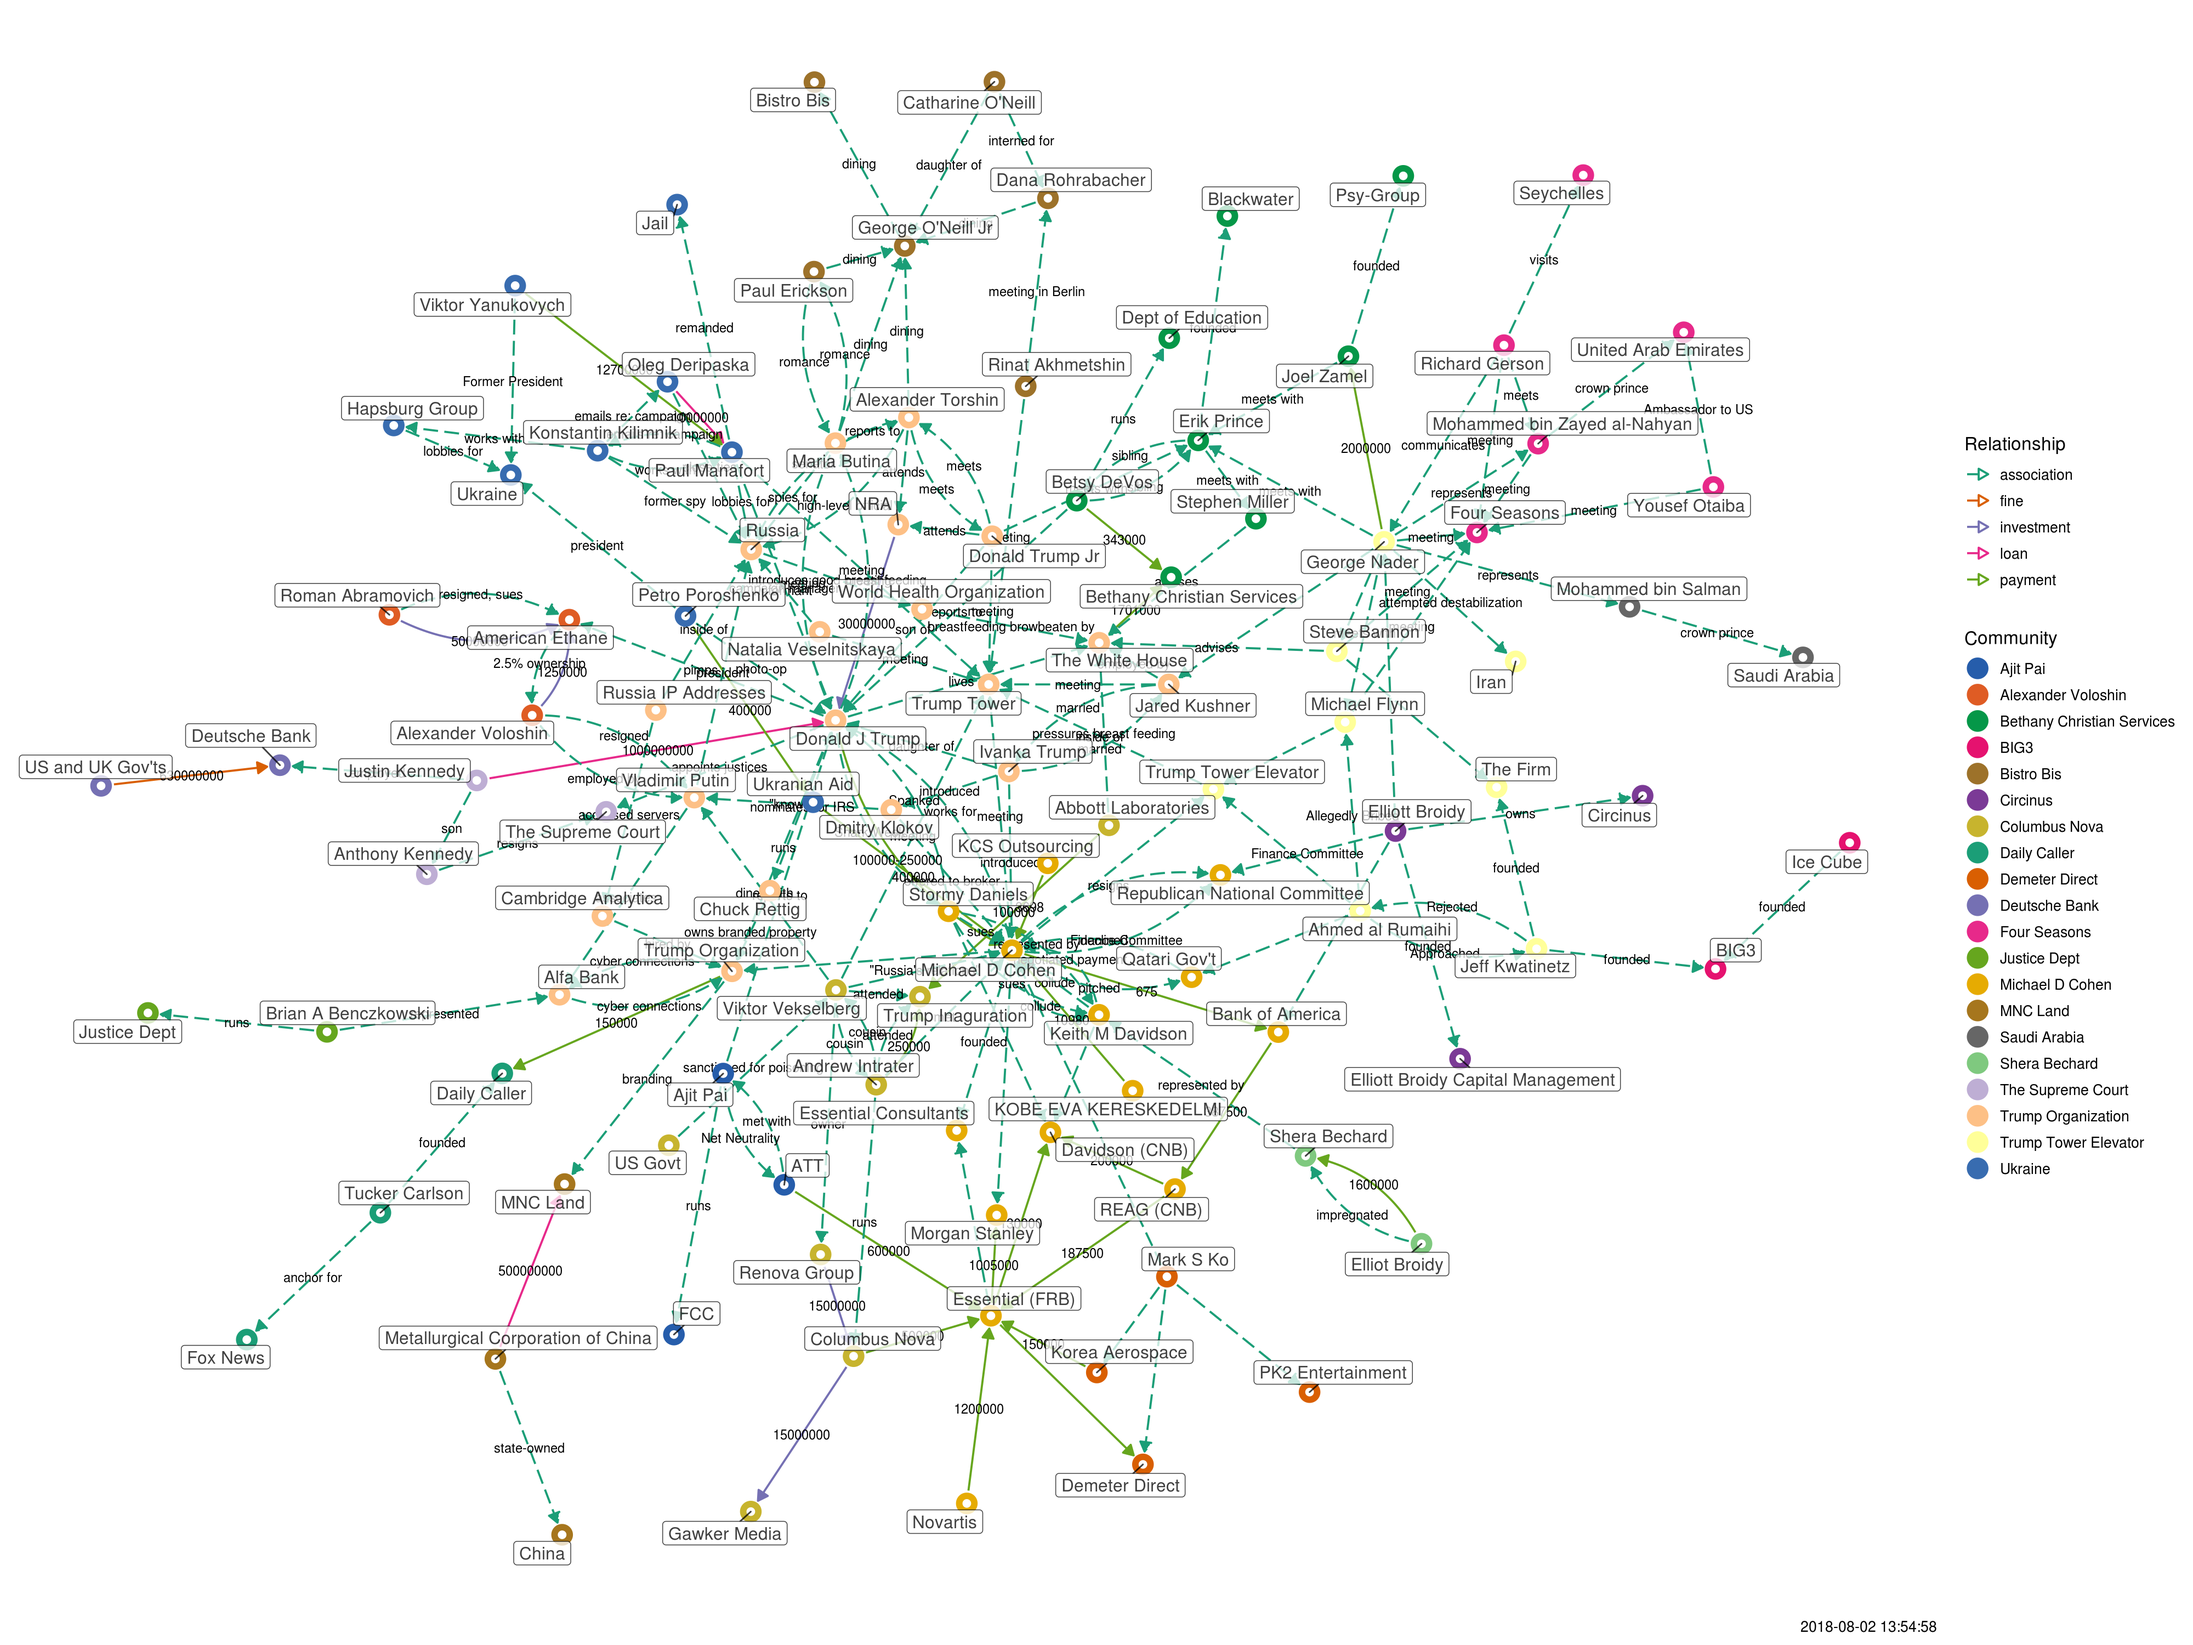
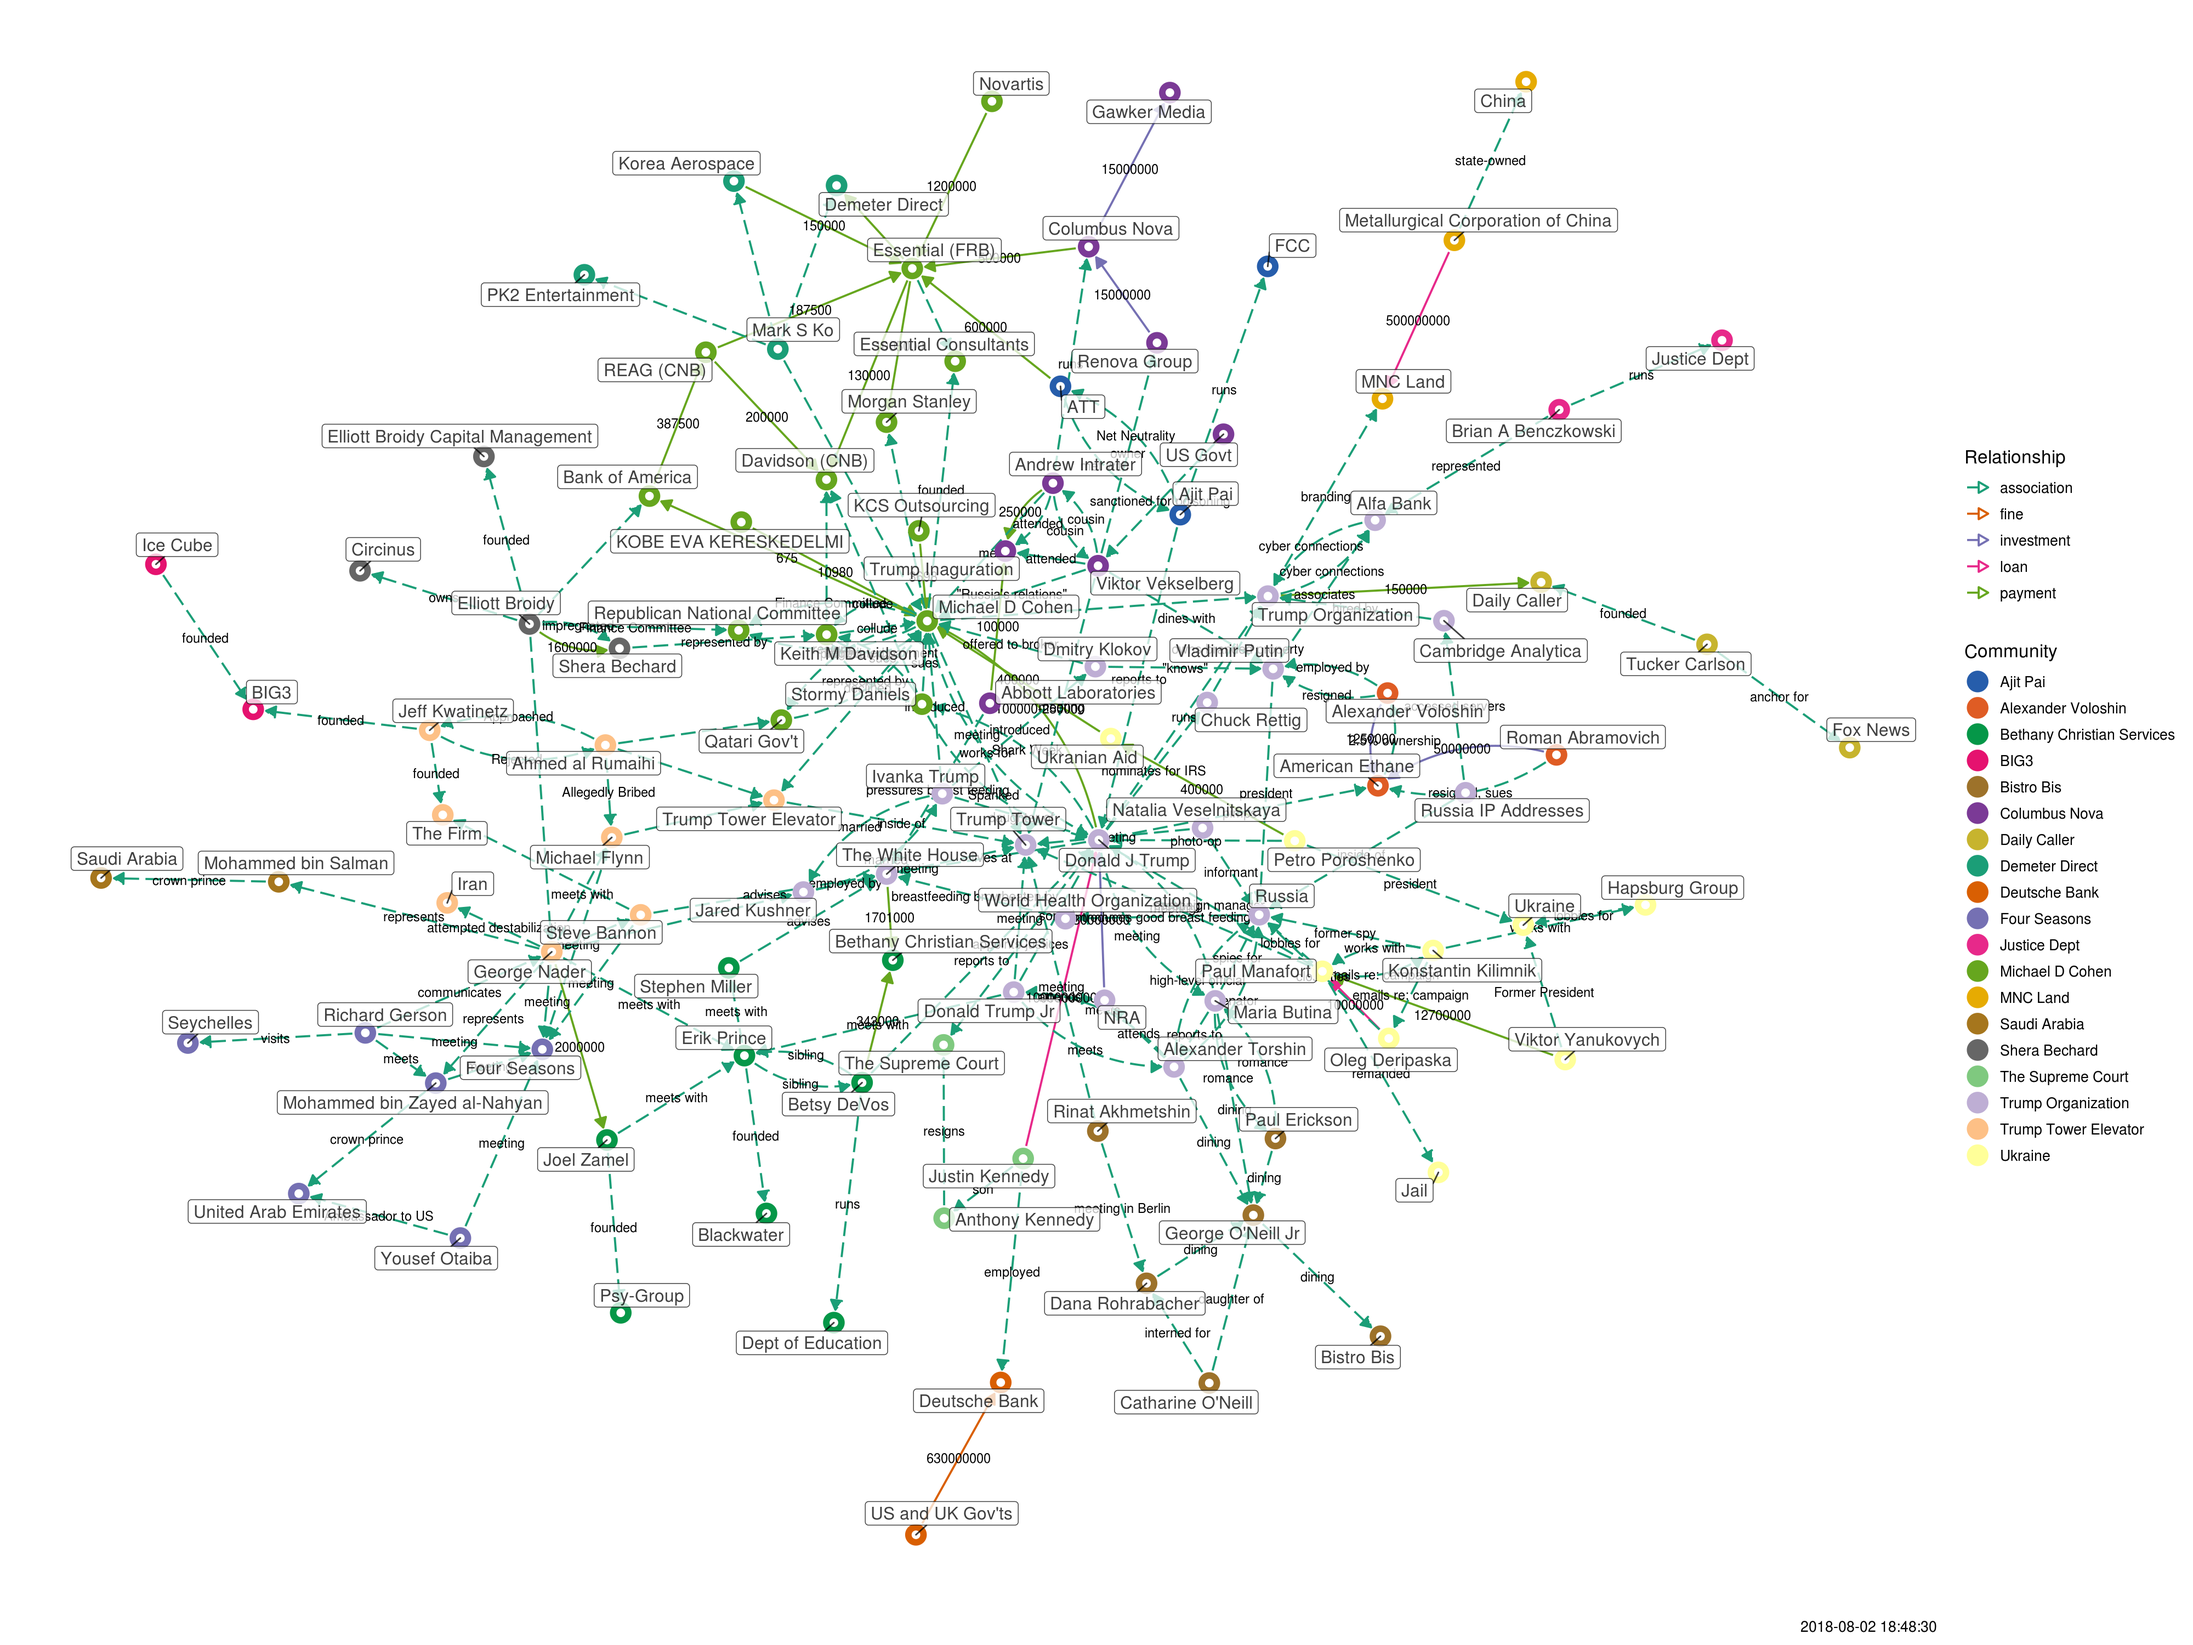
updated

diff --git a/docs/tangled-d3.html b/docs/tangled-d3.html
@@ -9,11 +9,11 @@
 </head>
 <body style="background-color: white;">
 <div id="htmlwidget_container">
-<div id="htmlwidget-b0f6b51bcbbfd67a1b5c" class="forceNetwork html-widget" style="width:960px;height:500px;">
+<div id="htmlwidget-60b3cf612780458a1462" class="forceNetwork html-widget" style="width:960px;height:500px;">
 
 </div>
 </div>
-<script type="application/json" data-for="htmlwidget-b0f6b51bcbbfd67a1b5c">{"x":{"links":{"source":[0,1,2,3,4,5,6,6,7,8,9,9,9,10,11,12,13,14,15,16,17,18,19,20,21,21,22,23,24,25,26,27,28,9,16,2,2,29,2,29,29,2,30,16,31,32,32,29,33,33,33,33,16,7,7,32,16,16,34,34,34,34,7,16,35,36,36,37,38,37,37,39,36,36,40,40,40,3,39,33,10,10,41,41,42,42,16,43,44,44,10,45,46,47,10,10,48,49,47,50,46,10,10,45,47,5,5,5,25,15,20,20,16,29,29,51,52,52,52,52,10,49,35,39,53,53,42,42,54,54,32,32,16,31,55,56,55,57,58,57,55,57,57,45,41,59,60,60,28,19,57,55,7,61,16,62,11,11,7,0,63,64,7,1,1,65,23,66,66,58,67,25,68,69,69,70,7,70,70,71,70,72,71,45,45,71,71,71,70,73,72,74,74,59,75,8,76,31],"target":[77,65,77,9,21,78,9,79,16,76,80,81,82,46,7,16,16,9,83,4,9,7,57,26,80,9,6,65,78,84,16,85,57,86,86,6,16,22,29,2,77,77,29,7,80,80,31,58,87,88,89,4,82,24,32,7,25,87,81,90,16,14,25,51,51,51,37,36,91,92,91,92,43,35,3,7,93,40,24,10,39,41,24,42,41,7,43,16,84,94,47,47,47,95,49,48,96,97,50,24,98,35,99,7,5,47,100,7,83,101,7,102,103,103,16,103,104,49,10,105,105,105,105,105,105,97,16,54,16,58,31,16,31,16,56,102,57,64,64,7,64,106,103,103,103,103,103,64,102,64,55,19,61,25,87,107,62,85,107,24,24,63,65,58,58,1,65,67,108,67,25,67,25,68,64,7,70,64,71,64,72,70,45,71,18,18,64,75,75,75,75,75,73,73,109,76,31,16],"colour":["red","blue","red","red","red","red","red","blue","red","red","red","red","red","red","blue","red","red","red","blue","red","red","blue","blue","red","red","red","blue","blue","red","red","red","blue","red","blue","blue","blue","blue","blue","blue","blue","blue","blue","blue","blue","blue","blue","blue","blue","blue","blue","blue","blue","blue","blue","blue","blue","blue","blue","blue","blue","blue","blue","blue","blue","blue","blue","blue","blue","blue","blue","blue","blue","blue","blue","blue","blue","blue","blue","blue","blue","blue","blue","blue","blue","blue","blue","blue","blue","blue","blue","blue","blue","blue","blue","blue","blue","blue","blue","blue","blue","blue","blue","blue","blue","blue","blue","blue","blue","blue","blue","blue","blue","blue","blue","blue","blue","blue","blue","blue","blue","blue","blue","blue","blue","blue","blue","blue","blue","blue","blue","blue","blue","blue","blue","blue","blue","blue","blue","blue","blue","blue","blue","blue","blue","blue","blue","blue","blue","blue","blue","blue","blue","blue","blue","blue","blue","blue","blue","blue","blue","blue","blue","blue","blue","blue","blue","blue","blue","blue","blue","blue","blue","blue","blue","blue","blue","blue","blue","blue","blue","blue","blue","blue","blue","blue","blue","blue","blue","blue","blue","blue","blue","blue","blue","blue","blue","blue","blue"]},"nodes":{"name":["Abbott Laboratories","Alexander Voloshin","Andrew Intrater","ATT","Bank of America","Betsy DeVos","Columbus Nova","Donald J Trump","Elliot Broidy","Essential (FRB)","George Nader","Justin Kennedy","KCS Outsourcing","KOBE EVA KERESKEDELMI","Korea Aerospace","Metallurgical Corporation of China","Michael D Cohen","Novartis","NRA","Oleg Deripaska","Petro Poroshenko","REAG (CNB)","Renova Group","Roman Abramovich","The White House","Trump Organization","Ukranian Aid","US and UK Gov'ts","Viktor Yanukovych","Viktor Vekselberg","US Govt","Keith M Davidson","Stormy Daniels","Elliott Broidy","Mark S Ko","Michael Flynn","Ahmed al Rumaihi","Jeff Kwatinetz","Ice Cube","Steve Bannon","Ajit Pai","Jared Kushner","Ivanka Trump","Qatari Gov't","Tucker Carlson","Donald Trump Jr","Joel Zamel","Erik Prince","Mohammed bin Salman","Mohammed bin Zayed al-Nahyan","Stephen Miller","Trump Tower Elevator","Richard Gerson","Yousef Otaiba","Dmitry Klokov","Konstantin Kilimnik","Hapsburg Group","Paul Manafort","Vladimir Putin","Rinat Akhmetshin","Natalia Veselnitskaya","Chuck Rettig","Anthony Kennedy","World Health Organization","Russia","American Ethane","Brian A Benczkowski","Alfa Bank","Cambridge Analytica","Russia IP Addresses","Maria Butina","Alexander Torshin","Paul Erickson","Dana Rohrabacher","Catharine O'Neill","George O'Neill Jr","Shera Bechard","Trump Inaguration","Bethany Christian Services","Gawker Media","Davidson (CNB)","Demeter Direct","Morgan Stanley","MNC Land","Daily Caller","Deutsche Bank","Essential Consultants","Republican National Committee","Elliott Broidy Capital Management","Circinus","PK2 Entertainment","BIG3","The Firm","FCC","Fox News","Blackwater","Saudi Arabia","United Arab Emirates","Psy-Group","Iran","Dept of Education","China","Ukraine","Trump Tower","Seychelles","Four Seasons","Jail","The Supreme Court","Justice Dept","Bistro Bis"],"group":["5","14","5","12","2","4","5","1","20","2","6","13","2","2","9","11","2","2","1","3","3","2","5","14","1","1","3","19","3","5","5","2","2","15","9","6","6","6","18","6","12","1","1","2","10","1","4","4","16","7","4","6","7","7","1","3","3","3","1","8","1","1","13","1","1","14","17","1","1","1","1","1","8","8","8","8","20","5","4","5","2","9","2","11","10","19","2","2","15","15","9","18","6","12","10","4","16","7","4","6","4","11","3","1","7","7","3","13","17","8"]},"options":{"NodeID":"name","Group":"group","colourScale":"d3.scaleOrdinal(d3.schemeCategory20);","fontSize":20,"fontFamily":"serif","clickTextSize":50,"linkDistance":50,"linkWidth":"function(d) { return Math.sqrt(d.value); }","charge":-100,"opacity":1,"zoom":true,"legend":false,"arrows":false,"nodesize":false,"radiusCalculation":" Math.sqrt(d.nodesize)+6","bounded":false,"opacityNoHover":1,"clickAction":null}},"evals":[],"jsHooks":[]}</script>
-<script type="application/htmlwidget-sizing" data-for="htmlwidget-b0f6b51bcbbfd67a1b5c">{"viewer":{"width":450,"height":350,"padding":10,"fill":true},"browser":{"width":960,"height":500,"padding":10,"fill":true}}</script>
+<script type="application/json" data-for="htmlwidget-60b3cf612780458a1462">{"x":{"links":{"source":[0,1,2,3,4,5,6,6,7,8,9,9,9,10,11,12,13,14,15,16,17,18,19,20,21,21,22,23,24,25,26,27,28,9,16,2,2,29,2,29,29,2,30,16,31,32,32,29,8,8,8,8,16,7,7,32,16,16,33,33,33,33,7,16,34,35,35,36,37,36,36,38,35,35,39,39,39,3,38,8,10,10,40,40,41,41,16,42,43,43,10,44,45,46,10,10,47,48,46,49,45,10,10,44,46,5,5,5,25,15,20,20,16,29,29,50,51,51,51,51,10,48,34,38,52,52,41,41,53,53,32,32,16,31,54,55,54,56,57,56,54,56,56,44,40,58,59,59,28,19,56,54,7,60,16,61,11,11,7,0,62,63,7,1,1,64,23,65,65,57,66,25,67,68,68,69,7,69,69,70,69,71,70,44,44,70,70,70,69,72,71,73,73,58,74,8,75,31],"target":[76,64,76,9,21,77,9,78,16,75,79,80,81,45,7,16,16,9,82,4,9,7,56,26,79,9,6,64,77,83,16,84,56,85,85,6,16,22,29,2,76,76,29,7,79,79,31,57,86,87,88,4,81,24,32,7,25,86,80,89,16,14,25,50,50,50,36,35,90,91,90,91,42,34,3,7,92,39,24,10,38,40,24,41,40,7,42,16,83,93,46,46,46,94,48,47,95,96,49,24,97,34,98,7,5,46,99,7,82,100,7,101,102,102,16,102,103,48,10,104,104,104,104,104,104,96,16,53,16,57,31,16,31,16,55,101,56,63,63,7,63,105,102,102,102,102,102,63,101,63,54,19,60,25,86,106,61,84,106,24,24,62,64,57,57,1,64,66,107,66,25,66,25,67,63,7,69,63,70,63,71,69,44,70,18,18,63,74,74,74,74,74,72,72,108,75,31,16],"colour":["red","blue","red","red","red","red","red","blue","red","red","red","red","red","red","blue","red","red","red","blue","red","red","blue","blue","red","red","red","blue","blue","red","red","red","blue","red","blue","blue","blue","blue","blue","blue","blue","blue","blue","blue","blue","blue","blue","blue","blue","blue","blue","blue","blue","blue","blue","blue","blue","blue","blue","blue","blue","blue","blue","blue","blue","blue","blue","blue","blue","blue","blue","blue","blue","blue","blue","blue","blue","blue","blue","blue","blue","blue","blue","blue","blue","blue","blue","blue","blue","blue","blue","blue","blue","blue","blue","blue","blue","blue","blue","blue","blue","blue","blue","blue","blue","blue","blue","blue","blue","blue","blue","blue","blue","blue","blue","blue","blue","blue","blue","blue","blue","blue","blue","blue","blue","blue","blue","blue","blue","blue","blue","blue","blue","blue","blue","blue","blue","blue","blue","blue","blue","blue","blue","blue","blue","blue","blue","blue","blue","blue","blue","blue","blue","blue","blue","blue","blue","blue","blue","blue","blue","blue","blue","blue","blue","blue","blue","blue","blue","blue","blue","blue","blue","blue","blue","blue","blue","blue","blue","blue","blue","blue","blue","blue","blue","blue","blue","blue","blue","blue","blue","blue","blue","blue","blue","blue","blue","blue","blue"]},"nodes":{"name":["Abbott Laboratories","Alexander Voloshin","Andrew Intrater","ATT","Bank of America","Betsy DeVos","Columbus Nova","Donald J Trump","Elliott Broidy","Essential (FRB)","George Nader","Justin Kennedy","KCS Outsourcing","KOBE EVA KERESKEDELMI","Korea Aerospace","Metallurgical Corporation of China","Michael D Cohen","Novartis","NRA","Oleg Deripaska","Petro Poroshenko","REAG (CNB)","Renova Group","Roman Abramovich","The White House","Trump Organization","Ukranian Aid","US and UK Gov'ts","Viktor Yanukovych","Viktor Vekselberg","US Govt","Keith M Davidson","Stormy Daniels","Mark S Ko","Michael Flynn","Ahmed al Rumaihi","Jeff Kwatinetz","Ice Cube","Steve Bannon","Ajit Pai","Jared Kushner","Ivanka Trump","Qatari Gov't","Tucker Carlson","Donald Trump Jr","Joel Zamel","Erik Prince","Mohammed bin Salman","Mohammed bin Zayed al-Nahyan","Stephen Miller","Trump Tower Elevator","Richard Gerson","Yousef Otaiba","Dmitry Klokov","Konstantin Kilimnik","Hapsburg Group","Paul Manafort","Vladimir Putin","Rinat Akhmetshin","Natalia Veselnitskaya","Chuck Rettig","Anthony Kennedy","World Health Organization","Russia","American Ethane","Brian A Benczkowski","Alfa Bank","Cambridge Analytica","Russia IP Addresses","Maria Butina","Alexander Torshin","Paul Erickson","Dana Rohrabacher","Catharine O'Neill","George O'Neill Jr","Shera Bechard","Trump Inaguration","Bethany Christian Services","Gawker Media","Davidson (CNB)","Demeter Direct","Morgan Stanley","MNC Land","Daily Caller","Deutsche Bank","Essential Consultants","Republican National Committee","Elliott Broidy Capital Management","Circinus","PK2 Entertainment","BIG3","The Firm","FCC","Fox News","Blackwater","Saudi Arabia","United Arab Emirates","Psy-Group","Iran","Dept of Education","China","Ukraine","Trump Tower","Seychelles","Four Seasons","Jail","The Supreme Court","Justice Dept","Bistro Bis"],"group":["5","15","5","13","2","4","5","1","10","2","6","14","2","2","9","12","2","2","1","3","3","2","5","15","1","1","3","19","3","5","5","2","2","9","6","6","6","18","6","13","1","1","2","11","1","4","4","16","7","4","6","7","7","1","3","3","3","1","8","1","1","14","1","1","15","17","1","1","1","1","1","8","8","8","8","10","5","4","5","2","9","2","12","11","19","2","2","10","10","9","18","6","13","11","4","16","7","4","6","4","12","3","1","7","7","3","14","17","8"]},"options":{"NodeID":"name","Group":"group","colourScale":"d3.scaleOrdinal(d3.schemeCategory20);","fontSize":20,"fontFamily":"serif","clickTextSize":50,"linkDistance":50,"linkWidth":"function(d) { return Math.sqrt(d.value); }","charge":-100,"opacity":1,"zoom":true,"legend":false,"arrows":false,"nodesize":false,"radiusCalculation":" Math.sqrt(d.nodesize)+6","bounded":false,"opacityNoHover":1,"clickAction":null}},"evals":[],"jsHooks":[]}</script>
+<script type="application/htmlwidget-sizing" data-for="htmlwidget-60b3cf612780458a1462">{"viewer":{"width":450,"height":350,"padding":10,"fill":true},"browser":{"width":960,"height":500,"padding":10,"fill":true}}</script>
 </body>
 </html>
